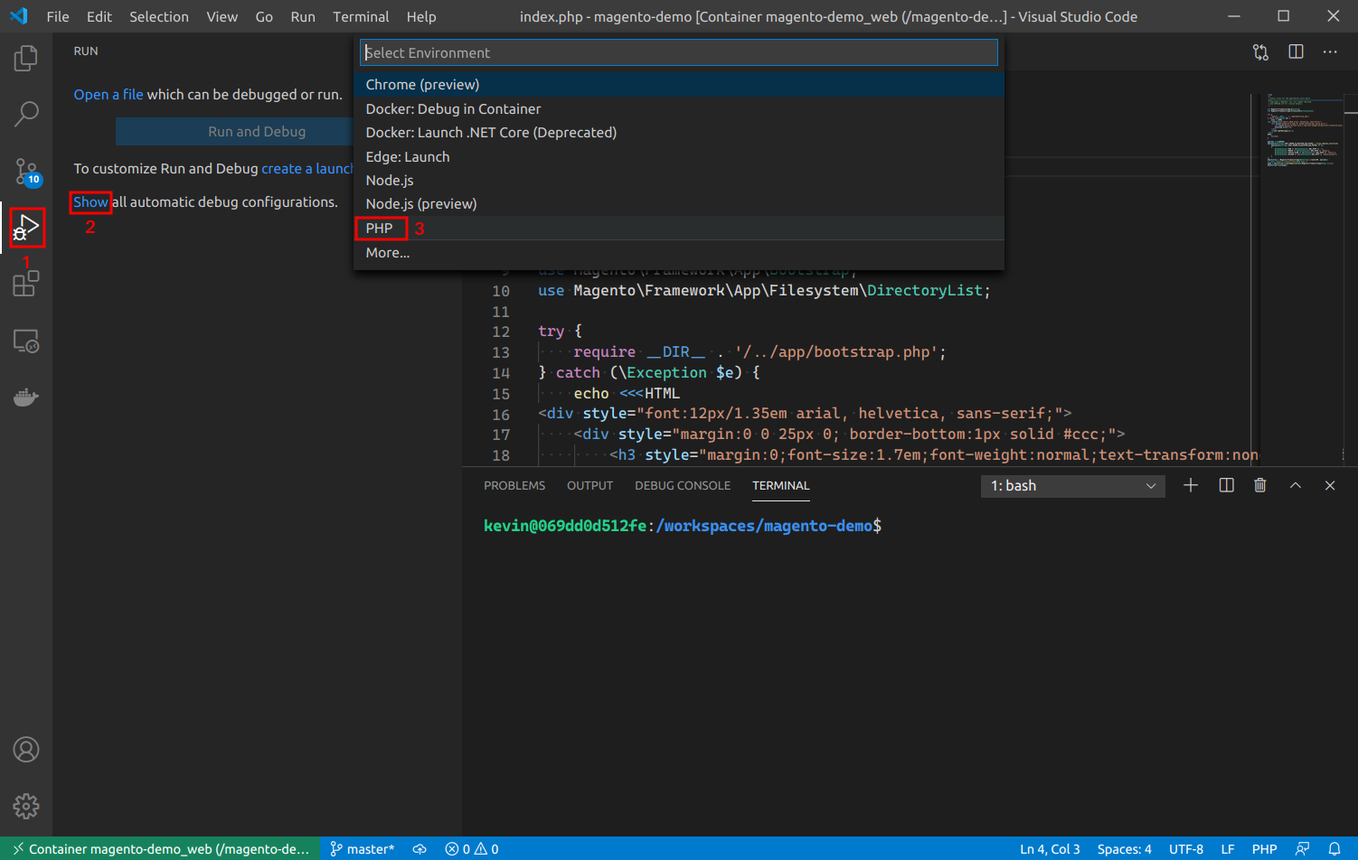
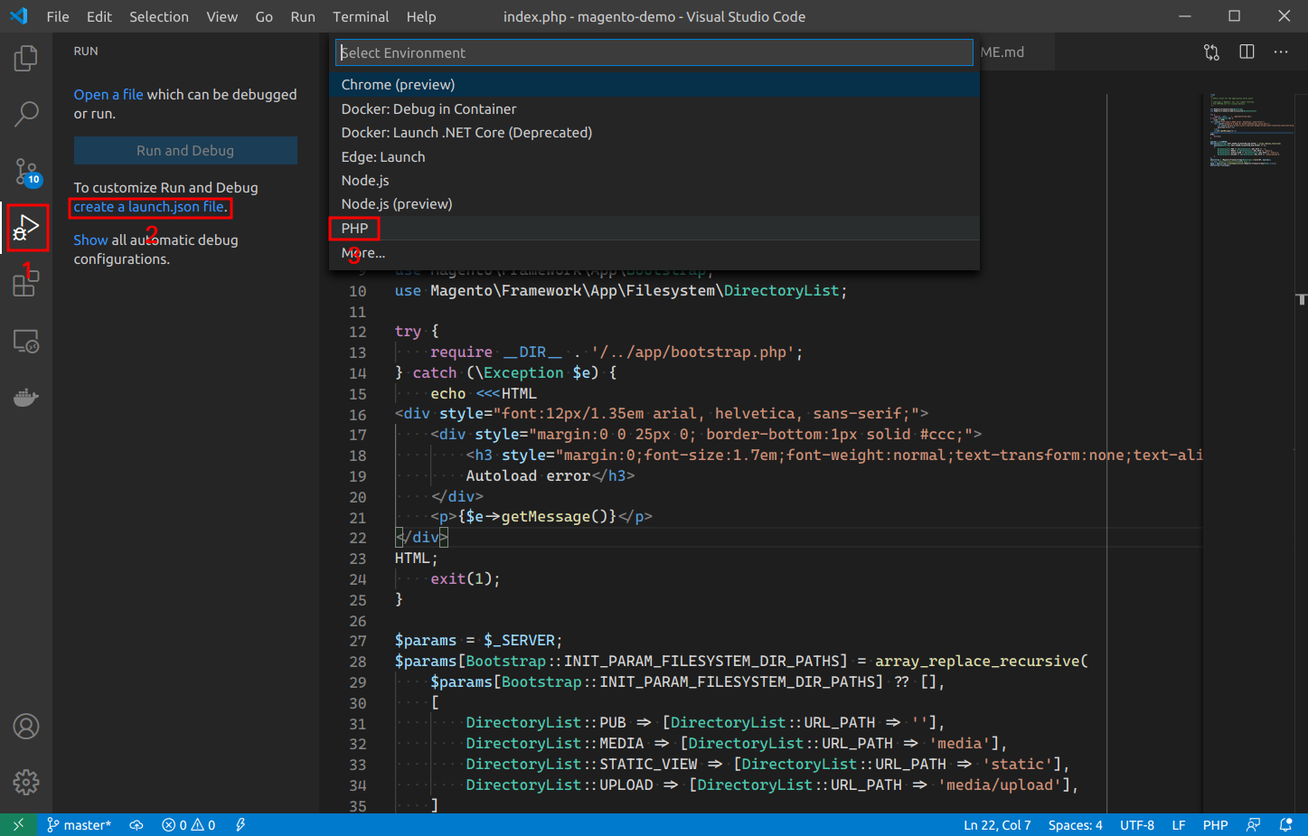
Finishing touches.

diff --git a/2020/09/05/how-to-fully-containerize-a-magento-2.4-installation-with-docker-compose-for-development.html.md b/2020/09/05/how-to-fully-containerize-a-magento-2.4-installation-with-docker-compose-for-development.html.md
@@ -1,24 +1,24 @@
 ---
 author: "Kevin Campusano"
-title: "How to fully containerize a Magento 2.4 installation with Docker Compose for development"
+title: "Containerizing Magento with Docker Compose: Elasticsearch, MySQL and Magento"
 tags: magento, mysql, elasticsearch, docker, docker compose
 ---
 
 ![Banner](./how-to-fully-containerize-a-magento-2.4-installation-with-docker-compose-for-development/banner.png)
 
-Magento is a complex piece of software, and as such, we need all the help we can get when it comes to developing customizations for it. A fully featured local development environment can do just that, but these can often times be very complex as well. It'd be nice to have some way to completely capture all the setup for such an environment and be able to get it all up and running quickly, repeatably... With a single command even. Well, Docker containers can help with that. And they can be easily provisioned with the Docker Compose tool.
+[Magento](https://magento.com/) is a complex piece of software, and as such, we need all the help we can get when it comes to developing customizations for it. A fully featured local development environment can do just that, but these can often times be very complex as well. It'd be nice to have some way to completely capture all the setup for such an environment and be able to get it all up and running quickly, repeatably... With a single command even. Well, [Docker](https://www.docker.com/) containers can help with that. And they can be easily provisioned with the [Docker Compose](https://docs.docker.com/compose/) tool.
 
-In this post, we're going to go in depth into how to fully containerize a Magento 2.4 installation for development. By the end of it, we'll have a single command that sets up all the infrastructure needed to run such an application, and develop for it. Let's get started.
+In this post, we're going to go in depth into how to fully containerize a Magento 2.4 installation for development. Complete with its other dependencies: [Elasticsearch](https://www.elastic.co/) and [MySQL](https://www.mysql.com/). By the end of it, we'll have a single command that sets up all the infrastructure needed to install and run Magento, and develop for it. Let's get started.
 
 ## Magento 2.4 application components
 
-The first thing that we need to know is what the actual components of a Magento application are. Starting with 2.4, Magento requires access to an Elasticsearch service to power catalog searches. Other than that, it's the usual suspects for most PHP applications. Here's what we need:
+The first thing that we need to know is what the actual components of a Magento application are. Starting with 2.4, [Magento requires access to an Elasticsearch](https://devdocs.magento.com/guides/v2.4/install-gde/prereq/elasticsearch.html) service to power catalog searches. Other than that, it's the usual suspects for most PHP applications. Here's what we need:
 
 1. Mysql
 2. Elasticsearch
 3. A web server running the Magento application
 
-In terms of infrastructure, this is pretty straightforward: This would cleanly translate into three separate machines talking to each other via the network. In the docker world, each of these machines become containers. Since we have multiple containers in our infrastructure, things like Docker Compose can come in handy to orchestrate the creation of all that. So let's get to it.
+In terms of infrastructure, this is pretty straightforward: This would cleanly translate into three separate machines talking to each other via the network. In the Docker world, each of these machines become containers. Since we need multiple containers for our infrastructure, things like Docker Compose can come in handy to orchestrate the creation of all that. So let's get to it.
 
 ## Creating a shared network
 
@@ -28,7 +28,7 @@ Since we want to create three separate containers that can talk to each other, w
 docker network create magento-demo-network
 ```
 
-`magento-demo-network` is the name i've chosen for my network but you can choose whatever is most appropriate.
+`magento-demo-network` is the name I've chosen for my network but you can choose whatever is most appropriate.
 
 You can run the following command to check your newly created network:
 
@@ -51,7 +51,7 @@ There's our `magento-demo-network` network among other networks that Docker crea
 
 ## Containerizing MySQL
 
-Getting a MySQL instance up and running is super easy these days thanks to Docker. There's already an official image for MySQL in Docker Hub so we will use that with this command:
+Getting a MySQL instance up and running is super easy these days thanks to Docker. There's already [an official image for MySQL](https://hub.docker.com/_/mysql) in [Docker Hub](https://hub.docker.com/) so we will use that. We can set it up with this command:
 
 ```sh
 docker run -d \
@@ -67,7 +67,7 @@ docker run -d \
   mysql:5.7
 ```
 
-And just like that, we have a running MySQL. Running `docker ps` can get you a list of currently running containers. The one we just created shoudl show up there.
+And just like that, we have a running MySQL. Running `docker ps` can get you a list of currently running containers. The one we just created should show up there.
 
 ```sh
 $ docker ps
@@ -78,20 +78,20 @@ b73739ad5d66        mysql:5.7           "docker-entrypoint.s…"   22 seconds ag
 Let's go through each one of the options from that command now to understand it better.
 
 - `docker run -d`: Runs the container in detached mode. This means that it's run in the background as a daemon. Control is returned to the console immediately.
-- `--name magento-demo-mysql`: This is the name of our container. Normally, Docker will generate a random name for containers. In this case, we want to give it a name to refer to it with other Docker commands.
-- `--network magento-demo-network`: Tells Docker to run the container as part of the `magento-demo-network` network that we created in the first step. This is teh network that we will use for all of our other containers.
+- `--name magento-demo-mysql`: This is the name of our container. Normally, Docker will generate random names for containers. In this case, we want to give it a name to refer to it with other Docker commands.
+- `--network magento-demo-network`: Tells Docker to run the container as part of the `magento-demo-network` network that we created earlier. This is the network that we will use for all of our containers.
 - `--network-alias mysql`: This is the name of this container within the network. This is how other containers in the network will be able to reference it. We'll see that come to life a bit later.
-- `-p 3306:3306`: Sets up our new MySQL container to allow connections over port `3306`. This is MySQL's default port, which Magento will use to connect to it. This basically says "requests coming over the network to port `3306` of this container are goin to be handled by the service installed in this container that listens to port `3306`". That service happens to be MySQL.
-- `-v magento-demo-mysql-data:/var/lib/mysql`: Creates a Docker volume. Specifically, we're setting this one up to store the data files from MySQL. We need to do this so that the data stored in our MySQL container is persisted across shutdowns. `magento-demo-mysql-data` is the name of the volume and `/var/lib/mysql` is the directory within the MySQL container where that volume is mounted. In other words, any files stored in that directory are going to be stored within the volume instead. The volume is stored by Docker in the host machine, outside the container. `/var/lib/mysql` This the default directory where MySQL stores databases.
+- `-p 3306:3306`: Sets up our new MySQL container to allow connections over port `3306`. This is MySQL's default port, which Magento will use to connect to it. This basically says "requests coming over the network to port `3306` of this container are going to be handled by the service installed in this container that listens to port `3306`". That service happens to be MySQL.
+- `-v magento-demo-mysql-data:/var/lib/mysql`: Creates a Docker volume. Specifically, we're setting this one up to store the data files from MySQL. We need to do this so that the data stored in our MySQL container is persisted across shutdowns. `magento-demo-mysql-data` is the name of the volume and `/var/lib/mysql` is the directory within the MySQL container where that volume is mounted. In other words, any files stored in that directory are going to be stored within the volume instead. The volume is stored by Docker in the host machine, outside the container. `/var/lib/mysql` is the default directory where MySQL stores databases.
 - `-e MYSQL_ROOT_PASSWORD=password`: Is the password for the root user for MySQL. This is passed into the containerized MySQL via environment variables. Hence the `-e` option.
 - `-e MYSQL_USER=kevin`: Creates a new login in MySQL with `kevin` as its username.
-- `-e MYSQL_PASSWORD=password`: Sets the `password` as the password for that `kevin` account.
+- `-e MYSQL_PASSWORD=password`: Sets the word `password` as the password for that `kevin` user.
 - `-e MYSQL_DATABASE=magento_demo`: Creates a database named `magento_demo`.
-- `mysql:5.7`: This is the image that we're using for our container. `5.7` specifies the version that we want to run. The `mysql` image in Docker Hub contains a few more versions or "tags", in Docker words.
+- `mysql:5.7`: This is the image that we're using for our container. `5.7` specifies the version that we want to run. [The `mysql` image in Docker Hub](https://hub.docker.com/_/mysql) contains a few more versions. Or "tags", in Docker words.
 
 ### Connecting to this container
 
-`docker ps` showed us that our container was running. We can also interact with it though. Here are a couple of ways on how to do it:
+`docker ps` showed us that our container was running. We can also interact with it. Here are a couple of ways of doing it:
 
 #### Connecting from within the container
 
@@ -103,8 +103,8 @@ docker exec -it magento-demo-mysql mysql -u kevin -p
 
 Here's how that command works:
 
-- `docker exec -it` is used to run commands inside a container in interactive mode. Just what we need here in this case because we're running an interactive CLI which is `mysql`.
-- `magento-demo-mysql` is the name we gave our container in the run command above. Via the `--name magento-demo-mysql` option. Here's why it's useful to give names to containers. Se we can use them in commands like this.
+- `docker exec -it` is used to run commands inside a container in interactive mode. Just what we need here in this case because we're running `mysql`, which is an interactive CLI.
+- `magento-demo-mysql` is the name we gave our container in the `docker run` command from before via the `--name magento-demo-mysql` option. This is why it's useful to give names to containers: so we can use them in commands like this.
 - `mysql -u kevin -p` is the command that's run within the container. This is just the usual way of connecting to a MySQL server instance using the `mysql` CLI client. We use `kevin` because that's what we set `MYSQL_USER` to when we created our container before.
 
 After runnung the previous command, the console will ask you for your password. We set that to `password` via `MYSQL_PASSWORD` so that's what we need to type in. This will eventually result in the `mysql` prompt showing up. Run `show databases` to confirm that the `magento_demo` database that we specified via `MYSQL_DATABASE` got created. 
@@ -132,11 +132,11 @@ mysql -h localhost -P 3306 --protocol=tcp -u kevin -p
 
 > Note that it is required that the `mysql` CLI client is installed in the host machine for this to work.
 
-Same as before, `mysql` will ask you for the password and, once typed in, will give you its prompt.
+Same as before, `mysql` will ask you for the password and, once typed in, it will give you its prompt.
 
 ## Containerizing Elasticsearch
 
-Like MySQL, there's an official Elasticsearch Docker image up in Docker Hub. as a result, getting a working Elasticsearch insallation is a piece of cake. It's done with a command like this:
+Like MySQL, there's an official [Elasticsearch Docker image up in Docker Hub](https://hub.docker.com/_/elasticsearch). As a result, getting a working Elasticsearch insallation is a piece of cake. It's done with a command like this:
 
 ```sh
 docker run -d \
@@ -149,7 +149,7 @@ docker run -d \
   elasticsearch:7.8.1
 ```
 
-You can validate that the Elasticsearch is running with `curl -X GET "localhost:9200/_cat/health"`. As a result you should see something like this:
+You can validate that the Elasticsearch is running with `curl -X GET "localhost:9200/_cat/health"`. That should return something like this:
 
 ```sh
 $ curl -X GET "localhost:9200/_cat/health"
@@ -165,7 +165,7 @@ Like before, let's dissect that command that we used. Very similar to the MySQL 
 - `--network magento-demo-network`: Puts the container in the same network as the rest of our infrastructure.
 - `--network-alias elasticsearch`: Is the name by which other containers in the network can refer to this contianer.
 - `-p 9200:9200`: Opens port `9200` so that other containers within the network can talk to this one.
-- `-p 9300:9300`: Same as the previous port.
+- `-p 9300:9300`: Same thing but for a different port.
 - `-e "discovery.type=single-node"`: Sets up the `discovery.type` environment virable that the image uses to configure Elasticsearch with.
 - `elasticsearch:7.8.1`: Specifies that our container will be running version `7.8.1` of Elasticsearch.
 
@@ -175,7 +175,7 @@ Now this is the step where things get a little bit more involved. Nothing crazy 
 
 ### The Dockerfile
 
-There's no image of Magento 2 that would be able to get us up and running as quickly as with MySQL or Ealsticsearch. Not that I could find at least. So we're going to have to create our own. We can create our own images with the help of Dockerfiles. A Dockerfile is, well, a file that contains all the specifications needed for a container. The Docker engine uses it to create images which can then be used as basis for running containers. Here's a Dockerfile for Magento 2.4 that I came up with:
+There's no image of Magento 2 that would be able to get us up and running as quickly as with MySQL or Ealsticsearch. Not that I could find at least. So we're going to have to create our own. We can create our own images with the help of [Dockerfiles](https://docs.docker.com/engine/reference/builder/). A Dockerfile is, well, a file that contains all the specifications needed for a container. The Docker engine uses it to create images which can then be used as basis for running containers. Here's a Dockerfile for Magento 2.4 that I came up with:
 
 ```dockerfile
 # /path/to/project/Dockerfile
@@ -187,7 +187,7 @@ ARG USER=docker
 ARG UID=1000
 ARG GID=1000
 
-# Installing PHP, all extensions needed for Magento and composer.
+# Installing PHP, composer and all extensions needed for Magento.
 RUN apt-get update && apt-get install -y software-properties-common curl
 
 RUN add-apt-repository ppa:ondrej/php
@@ -216,16 +216,16 @@ RUN groupadd --gid $GID $USER \
 # Use the non root user to log in as into the container
 USER ${UID}:${GID}
 
-# Set this as the default directory when we log into the container.
+# Set this as the default directory when we connect to the container.
 WORKDIR /workspaces/magento-demo
 
 # This is a quick hack to make sure the container has something to run when it starts, preventing it from closing itself automatically when created. You could also remove this and run the container with "docker run -t -d" to get the same effect. More on "docker run" further below.
 CMD ["sleep", "infinity"]
 ```
 
-Feel free to go through the comments in the file above for more details. But essentially, this Dockerfile describes what a machine ready to run Magento would look like. It's got PHP and all the necessary extensions, Xdebug and composer. It also includes the mysql CLI client.
+Feel free to go through the comments in the file above for more details. But essentially, this Dockerfile describes what a machine ready to run Magento would look like. It's got PHP and all the necessary extensions, [Xdebug](https://xdebug.org/) and [Composer](https://getcomposer.org/). It also includes the `mysql` CLI client.
 
-Importantly, it allows for creating a user account with sudo access. Later, we'll use this capability to create a user acocunt, inside the container that mimics the one we're using in our host machine. Efectively using the same user both inside and outside the container. The purpose of this is to make it possible to work on the Magento source code files from inside the container without having to deal with Linux permissions issues when we try to do the same from outside the container. that is, directly via the host machine.
+Importantly, it allows for creating a user account with sudo access. Later, we'll use this capability to create a user acocunt, inside the container that mimics the one we're using in our host machine. Efectively using the same user both inside and outside the container. The purpose of this is to make it possible to work on the Magento source code files from inside the container without having to deal with Linux permissions issues when we try to do the same from outside the container. That is, directly via the host machine.
 
 ### The image
 
@@ -246,10 +246,10 @@ docker build \
   -t magento-demo-web .
 ```
 
-Hre's what this all means:
+Here's what this all means:
 
 - `docker build`: Is the command to build images from Dockerfiles.
-- `--build-arg USER=kevin`: Specifies the username for the account with sudo access that we will log into our container as. I've chosen `kevin` here but you should use the one you're logged in as in your machine.
+- `--build-arg USER=kevin`: Specifies the username for the account with sudo access that we will log into our container as. I've chosen `kevin` here but you should use the one you're logged in as in your own machine.
 - `--build-arg UID=$(id -u)`: Uses the `id -u` to pass in the Id of the currently logged in user.
 - `--build-arg GID=$(id -g)`: Uses the `id -g` to pass in the Group Id of the currently logged in user.
 - `-t magento-demo .`: Specifies the name of the resulting image to be `magento-demo`. The `.` is a reference to the current working directory from where we're running the command, which is where our Dockerfile is located.
@@ -280,7 +280,7 @@ docker run -d \
 
 Line by line, this is telling Docker engine to:
 
-- `docker run -d`: Run the container in detached mode. You could also add the `-t` argument which makes sure the container stays up and running even if there's no program or service running within it.
+- `docker run -d`: Run the container in detached mode. You could also add the `-t` argument which makes sure the container stays up and running even if there's no program or service running within it. We don't need that in this case though because we defined our Dockerfile with that nifty `sleep infinity` command.
 - `--name magento-demo-web`: Set the name of our container to `magento-demo-web`.
 - `--network magento-demo-network`: Make our container will part of the same network as the MySQL and Elasticsearch ones.
 - `--network-alias web`: Set our container's name within the network.
@@ -329,7 +329,7 @@ Composer 1.10.1 2020-03-13 20:34:27
 
 ### Talking to other containers in the network
 
-We also need to validate that our containers are actaully able to talk to each other via the network that we set up. If all went according to plan, still from within our `magento-demo-web` container, this command showld open a `mysql` session:
+We also need to validate that our containers are actually able to talk to each other via the network that we set up. If all went according to plan, still from within our `magento-demo-web` container, this command showld open a `mysql` session:
 
 ```sh
 mysql -h mysql -u kevin -p
@@ -347,16 +347,17 @@ Again, from the perspective of `magento-demo-web`, this is just another machine 
 
 ### Installing Magento in our container
 
-Now that we have our environment ready for Magento. Let's install it. First order of business is to create the composer project:
+Now that we have our environment ready for Magento. Let's install it. First order of business is to create the Composer project:
 
 ```sh
 composer create-project --repository-url=https://repo.magento.com/ magento/project-community-edition ./install
 ```
-If you're familiar with composer, then this should look very familiar to you. This command will download all the magento files as specified by the `magento/project-community-edition` project from the `https://repo.magento.com/` repository. There are a few gotchas though:
 
-First, Magento is not openly available to download just like that. As such, composer will ask for authentication in order to do so. Follow [this guide](https://devdocs.magento.com/guides/v2.4/install-gde/prereq/connect-auth.html) to obtain the authentication keys from the Magento Marketplace. When compsoser asks for a "Username", type in the Public key; when it asks for "Password", type in the Private Key.
+If you're familiar with Composer, then this should look very familiar to you. This command will download all the magento files as specified by the `magento/project-community-edition` project from the `https://repo.magento.com/` repository. There are a few gotchas though:
 
-Second, you'll notice that I specified `./install` at the end of that command. This is where all the files will be downloaded. I've chosen this (i.e. an `install` directory under our current one) because `composer create-project` will refuse to download the files in a directory that's not empty. Ours isn't, because we've got our Dockerfile in it. But that's nothing to worry about, once composer finishes downloading everything, we'll just copy the files over to their rightful location at `/workspaces/magento-demo`. You can do so with some Linux sorcery like this one:
+First, Magento is not openly available to download just like that. As such, Composer will ask for authentication in order to do so. Follow [this guide](https://devdocs.magento.com/guides/v2.4/install-gde/prereq/connect-auth.html) to obtain the authentication keys from the Magento Marketplace. When Composer asks for a "Username", type in the "Public Key"; when it asks for "Password", type in the "Private Key".
+
+Second, you'll notice that I specified `./install` at the end of that command. This is where all the files will be downloaded. I've chosen this (i.e. an `install` directory inside our current one) because `composer create-project` will refuse to download the files in a directory that's not empty. Ours isn't, because we've got our Dockerfile in it. But that's nothing to worry about, once composer finishes downloading everything, we'll just copy the files over to their rightful location at `/workspaces/magento-demo`. You can do so with some Linux sorcery like this one:
 
 ```sh
 (shopt -s dotglob; mv -v ./install/* .)
@@ -414,7 +415,7 @@ And navigating to `localhost:5000` in your browser of choice. You should see you
 
 ### Optional: Installing the sample data
 
-If you're planning on developing some custom extension to Magento, or just play with it to get to know it better, you may want to add some sample data to it. Luckily, the Magento devs have graciously provided such a thing in the form of a composer package. If you want, you can install it with this recipe:
+If you're planning on developing some custom extension to Magento, or just play with it to get to know it better, you may want to add some sample data to it. Luckily, the Magento devs have graciously provided such a thing in the form of a Composer package. If you want, you can install it with this recipe:
 
 ```sh
 bin/magento sampledata:deploy
@@ -423,26 +424,26 @@ bin/magento indexer:reindex
 bin/magento cache:flush
 ```
 
-`bin/magento sampledata:deploy` will also ask you for your makerplace keys so have them ready.
+`bin/magento sampledata:deploy` will also ask you for your Magento Makerplace keys so have them ready.
 
-So turn off the PHP built in server, run these, wait a good while, and fire thebuilt in server once more. Your Magento app should now have catalog and all sorts of other data loaded in.
+So turn off the PHP built in server, run these, wait a good while, and fire the built in server once more. Your Magento app should now have catalog and all sorts of other data loaded in.
 
 ## Composing it all together
 
-Now that was a lot. It was much easier than having to set everything from scratch without Docker, but still, I promised a minimal setup overhead. A single command. With Docker Compose we can do just that.
+Now that was a lot. It was much easier than having to set everything up from scratch without Docker, but still, I promised a minimal setup overhead. A single command. With Docker Compose we can do just that.
 
 For containers, the usual workflow is a three step process: 
 
-1. Create the Dockerfile (sometimes omitted id we have a readily available image already like it was the case with MySQL and Elasticsearch).
+1. Create the Dockerfile (sometimes omitted if we have a readily available image like it was the case with MySQL and Elasticsearch).
 2. Create or download an image.
 3. Run the container.
 
-Docker Compose can help us by capturing all the settings needed to create containers in a single file; which then can be taken by a CLI tool (i.e. Docker Compose) and it can set up the complete infrastructure. This single file is named `docker-compose.yml` and this is what it may look like for our current setup:
+Docker Compose can help us by capturing all the settings needed to create containers in a single file; which then can be taken by a CLI tool (i.e. `docker-compose`) and it can set up the complete infrastructure. This single file is named `docker-compose.yml` and this is what it may look like for our current setup:
 
 ```yml
 version: "3.8"
 
-# Listing our three containers
+# Listing our three containers. Or "services", as known by Docker Compose.
 services:
     # Defining our MySQL container.
     # "mysql" will be the network alias for this container.
@@ -520,7 +521,7 @@ Make sure you're in the directory where the Dockerfile lives in the host machine
 docker-compose up -d
 ```
 
-This will take a little while, but at the end of it, you'll have a complete infrastructure with the three containers that we've created step by step throughout this article. With the `docker-compose.yml` file, `docker-compose up` essentially takes care of running all of our `docker build` and `docker run` commands.
+This will take a little while, but by the end of it, you'll have a complete infrastructure with the three containers that we've created step by step throughout this article. With the `docker-compose.yml` file, `docker-compose up` essentially takes care of running all of our `docker build` and `docker run` commands.
 
 The `-d` option means that the the command will run in the background and give you back control of your console. You can also run it without it if you want the console to show the logs from the containers.
 
@@ -547,7 +548,7 @@ magento-demo-mysql           docker-entrypoint.sh mysqld      Up      0.0.0.0:33
 magento-demo-web             sleep infinity                   Up      0.0.0.0:5000->5000/tcp                        
 ```
 
-Notice how `docker-compose ps` gives us out container names just as we specified them in the `docker-compose.yml` file.
+Notice how `docker-compose ps` gives us our container names just as we specified them in the `docker-compose.yml` file.
 
 `docker-compose` has many other utilities. Check them out with `docker-compose --help`.
 
@@ -557,7 +558,7 @@ Now, same as before, we still need to open a terminal into our Magento container
 docker-compose exec web bash
 ```
 
-Notice how, with `docker-compose` we refer to the container via its service name. That is, the name we gave the container under the `services` section of `docker-compose.yml`.
+Notice how with `docker-compose` we refer to the container via its service name. That is, the name we gave the container under the `services` section of `docker-compose.yml`.
 
 Of course, we can still use the same command that we used before, when we created our container directly with `docker`:
 
@@ -565,7 +566,7 @@ Of course, we can still use the same command that we used before, when we create
 docker exec -it magento-demo-web bash
 ```
 
-Now, once inside our container we need to install Magento again. Remember that we wiped out all the infrastructure we created manually these are new containers; akin to new "machines".
+Now, once inside our container we need to install Magento again. Remember that we wiped out all the infrastructure we created manually, so these are fresh new containers; akin to new "machines".
 
 If you were running this from scratch you would just go ahead and do...
 
@@ -614,13 +615,14 @@ After a while, Magento will be fully installed in our new infrastructure created
 ```sh
 php -S 0.0.0.0:5000 -t ./pub/ ./phpserver/router.php
 ```
+
 ## Bonus: Interactive debugging with Visual Studio Code
 
 So this is a fully functioning Magento installation with files that we can edit to our hearts' content. In terms of a "fully featured" development environment however, we need to spruce it up a bit.
 
 So install VS Code from https://code.visualstudio.com/ and install the [Remote Development plugin](https://marketplace.visualstudio.com/items?itemName=ms-vscode-remote.vscode-remote-extensionpack).
 
-Open a new VS Code window and open the command palette with `Ctrl + Shift + P`. In there, type in `Remote-Containers: Attach to Running Container...` and press `Enter`. In the resulting menu, select our `magento-demo-web` container.
+Open a new VS Code window and open the command palette with `Ctrl + Shift + P`. In there, type in `Remote-Containers: Attach to Running Container...` and press `Enter`. In the menu that shows up, select our `magento-demo-web` container.
 
 That will result in a new VS Code instance that is connected to the container. Open an integrated terminal in VS Code and you'll see:
 
@@ -628,14 +630,14 @@ That will result in a new VS Code instance that is connected to the container. O
 
 Now, install the [PHP Debug extension](https://marketplace.visualstudio.com/items?itemName=felixfbecker.php-debug) so that we can take advantage of that Xdebug that we installed in our container via our Dockerfile.
 
-Create a new launch configuration for interactive debugging with PHP by clicking on the "Run" button in the action bar to the left (`Ctrl + Shift + D` also works). Click the "Show" link in the pane that appears. Then, in the resulting menu at the top of the window, click the "Add configuration..." option. Finally, select the "PHP" option from the resulting menu. Here's a screen capture for guidance:
+Create a new launch configuration for interactive debugging with PHP by clicking on the "Run" button in the action bar to the left (`Ctrl + Shift + D` also works). Click the "create a launch.json file" link in the pane that appears. Then, in the resulting menu at the top of the window, select the "PHP" option. Here's a screen capture for guidance:
 
 ![Setting up debugging in VS Code](./how-to-fully-containerize-a-magento-2.4-installation-with-docker-compose-for-development/debug.png)
 
 That will result in a new `.vscode/launch.json` file created that contains the launch configuration for the PHP debugger.
 
-Now let's put a breakpoint anywhere, like in line 13 of the `pub/index.php` file; press the "Start debugging" button in the "Run" pane (making sure that the "Listen to XDebug" option is selected), and start up the PHP built in server from the integrated terminal with `php -S 0.0.0.0:5000 -t ./pub/ ./phpserver/router.php`. Now navigate to `localhost:5000` in your browser and enjoy VS Code's interactive debugging expetience:
+Now let's put a breakpoint anywhere, like in line 13 of the `pub/index.php` file; press the "Start debugging" button in the "Run" pane, near the top left of the screen (making sure that the "Listen to XDebug" option is selected), and start up the PHP built in server from VS Code's integrated terminal with `php -S 0.0.0.0:5000 -t ./pub/ ./phpserver/router.php`. Now navigate to `localhost:5000` in your browser and enjoy VS Code's interactive debugging experience:
 
 ![Debugging Magento in VS Code](./how-to-fully-containerize-a-magento-2.4-installation-with-docker-compose-for-development/debugging.png)
 
-Whew! That was quite a bit. In this blog post, we've done a deep dive into how to set up all the pieces of a Magento application using Docker containers. Then, we captured all that knowledge into a single `docker-compose.yml` file which can be run with the `docker-compose` tool to provision all the infrastructure in out local machine. As a cherry on top, we set up interactive debugging of our Magento application with VS Code. Thanks to the safety net provided by these tools, I feel like I'm ready to really dig into Magento and start developing customizations, or debugging existing websites. If you've been following along this far, dear reader, I hope you do too.
+Whew! That was quite a bit. In this blog post, we've done a deep dive into how to set up all the pieces of a Magento application using Docker containers: MySQL, Ealsticsearch and Magento itself. Then, we captured all that knowledge into a single `docker-compose.yml` file which can be run with a single `docker-compose up` command to provision all the infrastructure in our local machine. As a cherry on top, we set up interactive debugging of our brand new Magento application with VS Code. Thanks to the safety net provided by these tools, I feel like I'm ready to really dig into Magento and start developing customizations, or debugging existing websites. If you've been following along this far, dear reader, I hope you do too.
